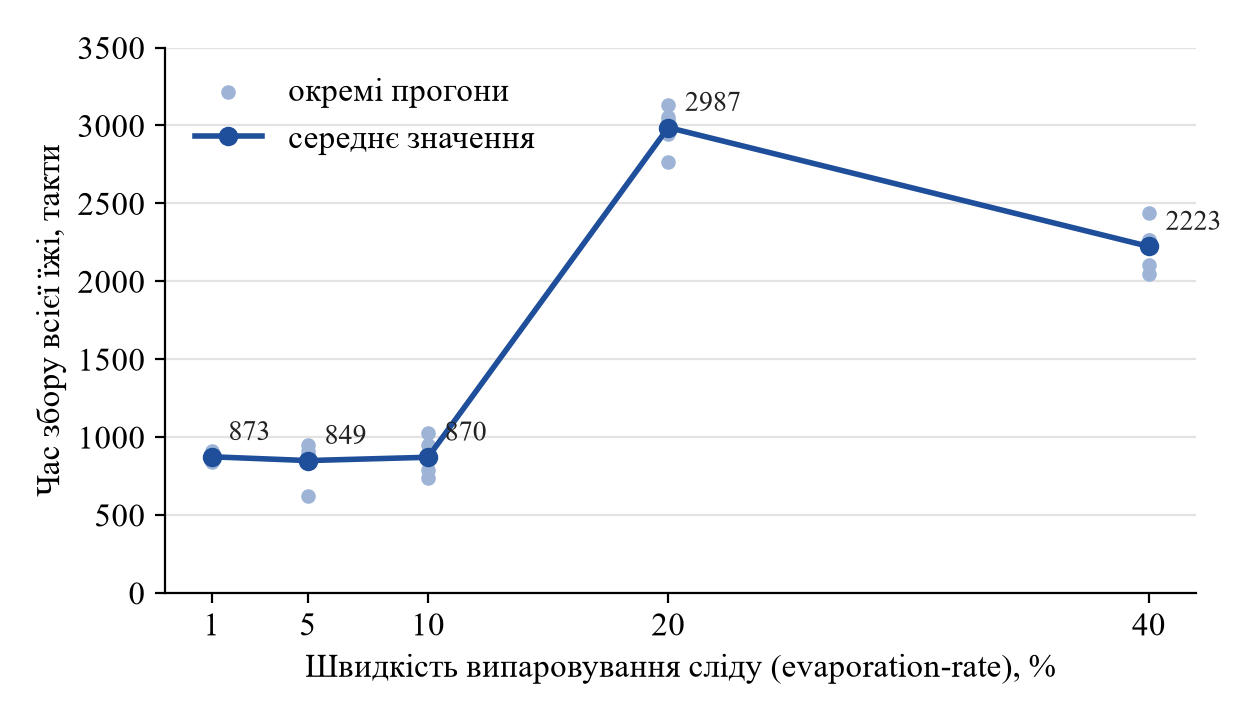
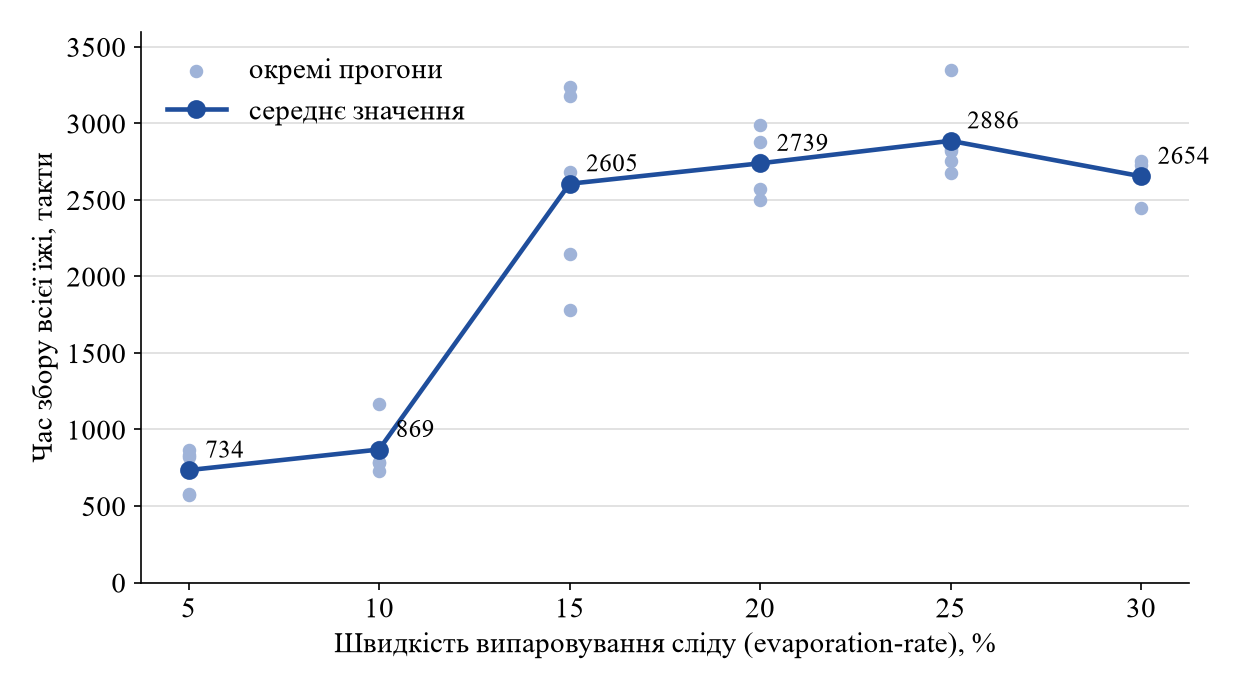
ЛР1: експеримент 2 з рівномірним кроком evaporation-rate (5-30)

Changed region(s): [[0.0305, 0.0304, 0.9767, 0.8826], [0.2442, 0.913, 0.8546, 0.9739], [0.7631, 0.0913, 0.7936, 0.1217]]

diff --git a/Lab1/README.md b/Lab1/README.md
@@ -100,7 +100,7 @@
 ### 2. Вплив швидкості випаровування сліду на час збору їжі
 Досліджується залежність часу збору всієї їжі від швидкості випаровування феромонного сліду **evaporation-rate**.
 
-Експерименти проводяться при значеннях 1, 5, 10, 20 і 40 %, для кожного значення — 3–5 прогонів.
+Експерименти проводяться при значеннях від 5 до 30 % з рівномірним кроком 5 %, для кожного значення — 5 прогонів.
 
 Інші керуючі параметри:
 - **population**: 125
@@ -111,11 +111,12 @@
 <tr><th>evaporation-rate, %</th><th>Час збору в окремих прогонах, такти</th><th>Середнє, такти</th></tr>
 </thead>
 <tbody>
-<tr><td>1</td><td>866, 912, 842</td><td>873</td></tr>
-<tr><td>5</td><td>624, 913, 948, 878, 882</td><td>849</td></tr>
-<tr><td>10</td><td>851, 740, 789, 1025, 946</td><td>870</td></tr>
-<tr><td>20</td><td>3130, 2764, 3037, 3056, 2947</td><td>2987</td></tr>
-<tr><td>40</td><td>2044, 2266, 2105, 2440, 2262</td><td>2223</td></tr>
+<tr><td>5</td><td>581, 575, 864, 819, 833</td><td>734</td></tr>
+<tr><td>10</td><td>1165, 726, 887, 786, 782</td><td>869</td></tr>
+<tr><td>15</td><td>1782, 2146, 2679, 3180, 3239</td><td>2605</td></tr>
+<tr><td>20</td><td>2573, 2499, 2877, 2759, 2986</td><td>2739</td></tr>
+<tr><td>25</td><td>2676, 2754, 2832, 2817, 3350</td><td>2886</td></tr>
+<tr><td>30</td><td>2687, 2654, 2751, 2730, 2449</td><td>2654</td></tr>
 </tbody>
 </table>
 
@@ -123,15 +124,15 @@
 
 Результат при evaporation-rate = 10 (близько 870 тактів) узгоджується з експериментом 1: при 125 мурахах він лежить між значеннями для 100 (1038) і 150 (749) мурах.
 
-На рисунках нижче показано вигляд моделі при різних значеннях evaporation-rate. При 1 % феромон майже не випаровується і заливає велику область навколо гнізда. При 20 % на полі залишаються лише короткі обривки сліду біля дальньої купки. При 40 % сліду практично немає, і всі три купки зменшуються одночасно з самого початку.
+На рисунках нижче показано вигляд моделі під час прогону при різних значеннях evaporation-rate. При 5 % феромон майже не випаровується і заливає широку область між гніздом і купками, тому мурахи рухаються широкими «дорогами». При 15 % дві ближні купки вже зібрані, а до дальньої веде лише короткий обривок сліду біля самої купки, тому вона спустошується повільно. При 30 % сліди короткі й розірвані навіть біля ближніх купок, і дальня купка майже не зменшується.
 
-![Стан моделі при evaporation-rate = 1](exp2_1.png)
+![Стан моделі при evaporation-rate = 5](exp2_5.png)
 
-![Стан моделі при evaporation-rate = 20](exp2_20.png)
+![Стан моделі при evaporation-rate = 15](exp2_15.png)
 
-![Стан моделі при evaporation-rate = 40](exp2_40.png)
+![Стан моделі при evaporation-rate = 30](exp2_30.png)
 
-**Висновок.** При evaporation-rate від 1 до 10 % час збору майже не змінюється (близько 850–870 тактів): слід живе достатньо довго, щоб утворити стійку «дорогу» навіть до дальньої купки. Між 10 і 20 % відбувається різкий стрибок — час зростає приблизно в 3,5 раза, бо слід до дальньої купки перестає утримуватися. Несподівано при 40 % їжа збирається швидше, ніж при 20 %. Порівняння графіків показує ймовірну причину: при 20 % короткі сліди ще встигають стягнути більшість мурах до ближніх купок, але довести їх до дальньої не можуть, тому вона залишається «на потім». При 40 % сліду немає зовсім, мурахи шукають їжу випадково й рівномірно, і всі купки збираються паралельно. Тобто слабкий слід, що постійно обривається, виявляється гіршим, ніж повна його відсутність.
+**Висновок.** Залежність часу збору від evaporation-rate має пороговий характер. При 5–10 % слід живе достатньо довго, щоб утворити стійкі «дороги» до всіх купок, і їжа збирається за 730–870 тактів. Між 10 і 15 % відбувається різкий стрибок — час зростає приблизно в 3 рази, бо слід до дальньої купки перестає утримуватися. При 15 % розкид між прогонами найбільший (від 1782 до 3239 тактів): це перехідна зона, у якій слід то утримується, то обривається. Далі, від 15 до 30 %, час майже не змінюється і тримається на рівні 2600–2900 тактів: слід уже не допомагає дістатися дальньої купки, мурахи знаходять її переважно випадково, тому подальше прискорення випаровування майже нічого не змінює.
 
 ### 3. Вплив швидкості розтікання сліду на час збору їжі
 Досліджується залежність часу збору всієї їжі від швидкості розтікання феромонного сліду на сусідні клітинки **diffusion-rate**.
@@ -173,7 +174,7 @@
 У роботі описано імітаційну модель «Ants» та проведено три обчислювальні експерименти щодо впливу керуючих параметрів на час, за який колонія збирає всю їжу.
 
 1. Найсильніше на результат впливає **кількість мурах**: при зміні population від 25 до 200 середній час збору зменшується з 9612 до 668 тактів, тобто більш ніж у 14 разів. Залежність нелінійна, з насиченням після ~100 мурах.
-2. **Швидкість випаровування** має пороговий вплив: до 10 % вона майже не змінює результат, а між 10 і 20 % час збору зростає приблизно в 3,5 раза, бо слід перестає утримуватися до дальнього джерела. Слабкий слід, що обривається, виявився гіршим за повну відсутність сліду.
+2. **Швидкість випаровування** має пороговий вплив: при 5–10 % час збору становить 730–870 тактів, а між 10 і 15 % він зростає приблизно в 3 рази, бо слід перестає утримуватися до дальнього джерела. Після 15 % час майже не змінюється (2600–2900 тактів): слід уже не допомагає, і мурахи знаходять дальню купку переважно випадково.
 3. **Швидкість розтікання** впливає найслабше і має оптимум близько 50 %; крайні значення (0 і 99 %) збільшують час збору на 25–70 %.
 
 Ефективність колонії визначається насамперед тим, чи вдається утворити й утримати стійкий слід до кожного джерела їжі: йому сприяють більша кількість мурах і повільне випаровування феромону. Результати різних експериментів за однакових налаштувань (близько 830–870 тактів) узгоджуються між собою, що підтверджує достовірність отриманих даних.
